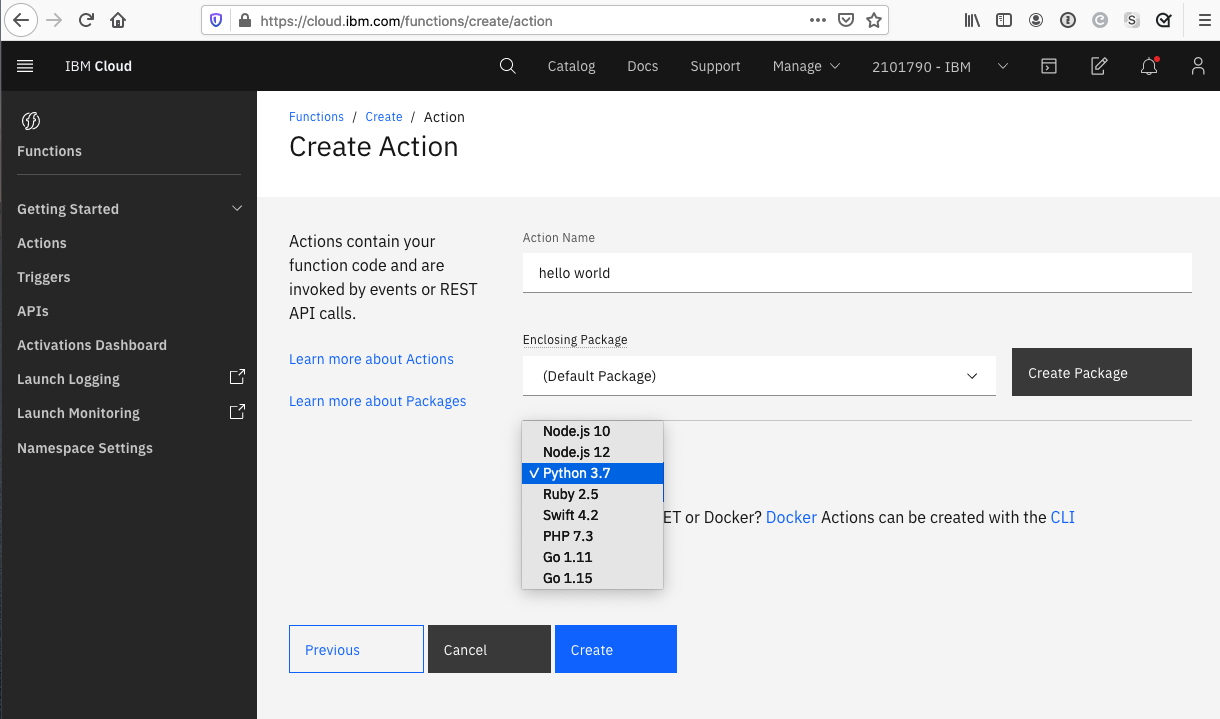
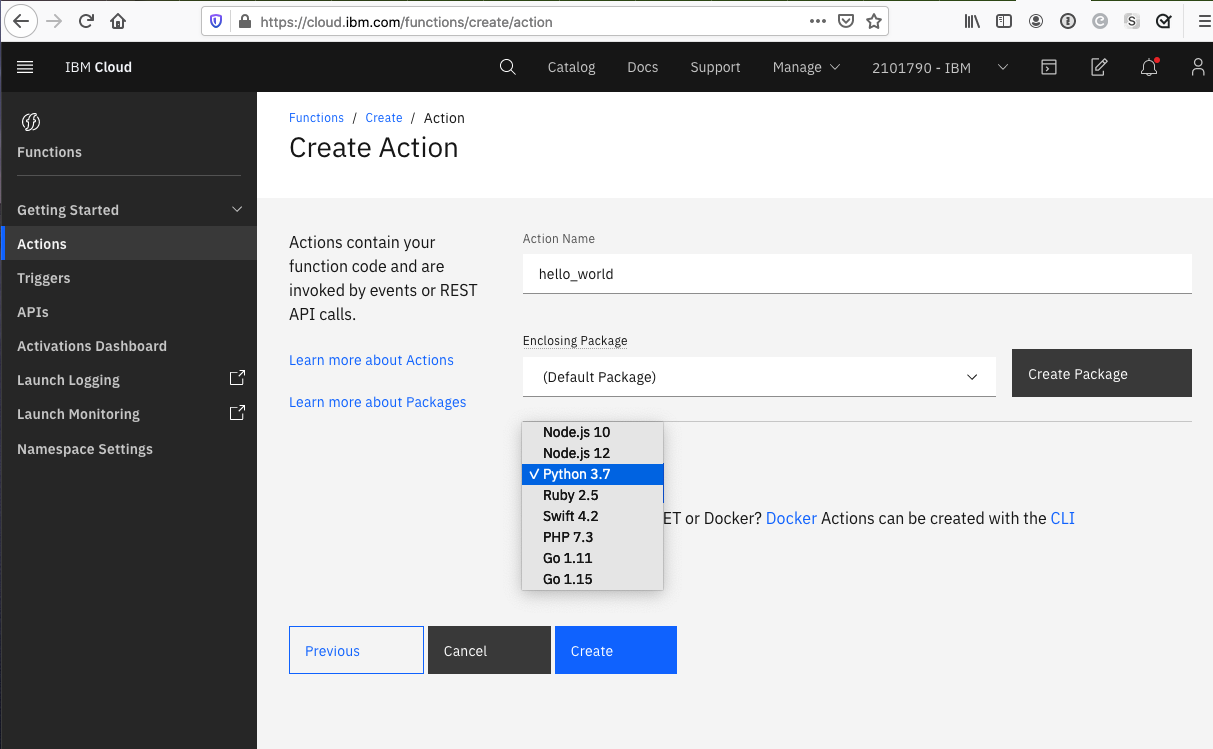
remove space in action name

diff --git a/README.md b/README.md
@@ -54,7 +54,7 @@ set to *regional* and set `eu-gb` as the region..
 5. Click on 'Action' form the list of entities
   ![Create entity page](_images/functions3.png)
 
-6. Name your action (e.g. 'hello world') and pick a runtime, in this case `python 3.7`:
+6. Name your action `hello_world` and pick a runtime, in this case `python 3.7`:
   ![Create an action page](_images/functions4.png)
 
 7. You will be taken to a page in which you can edit code yourself and click 'Invoke' to run it
